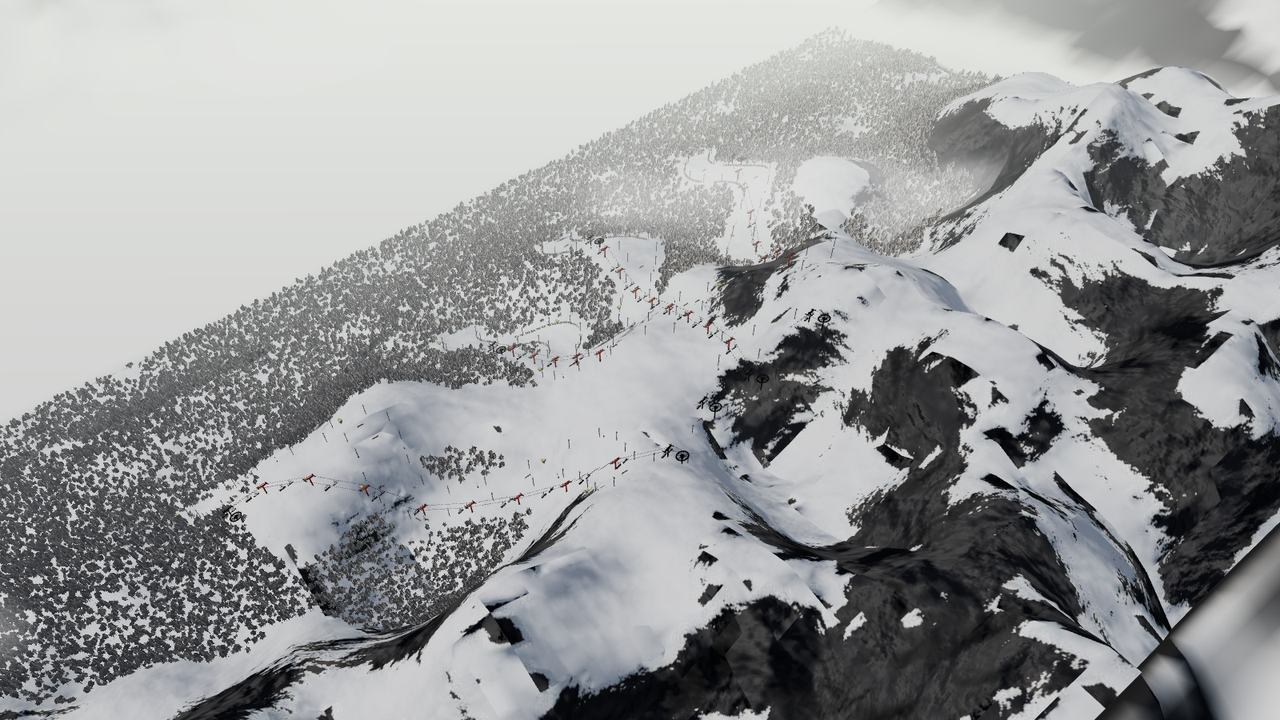
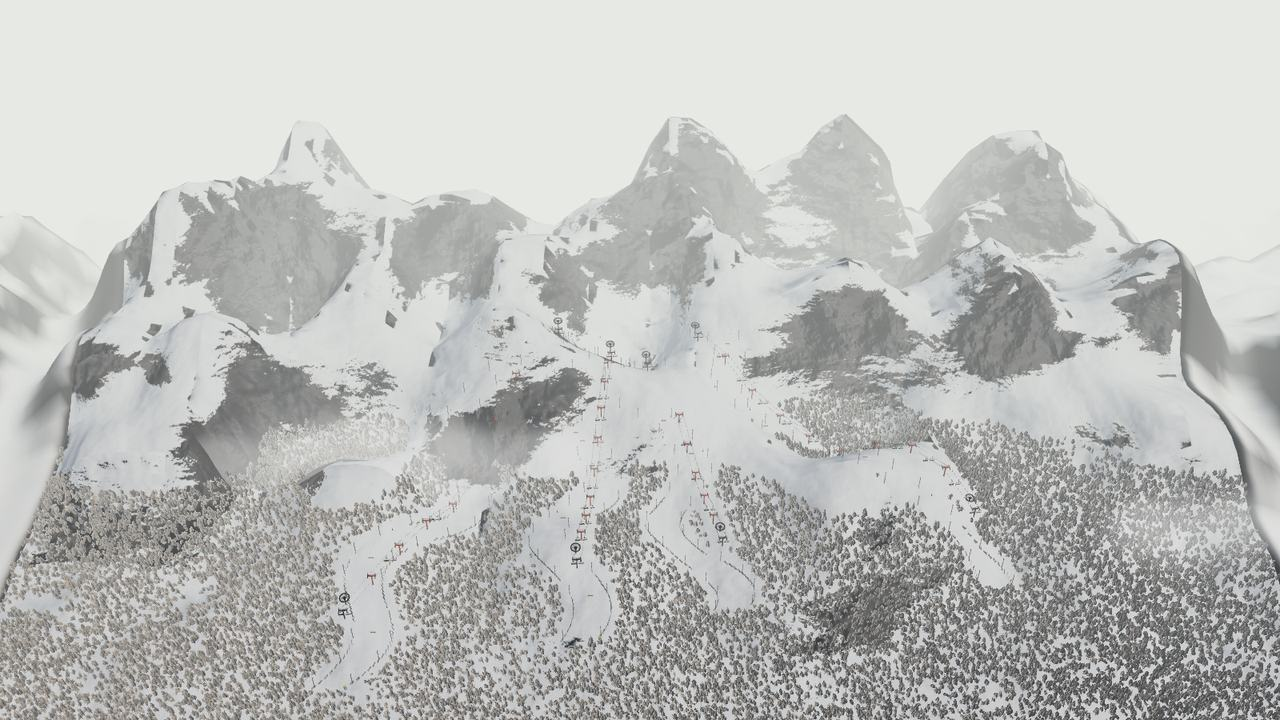
Ski section: dive camera path, stronger mouse pan, new poster

diff --git a/ski-resort.js b/ski-resort.js
@@ -10,17 +10,24 @@ const MODELS = 'Models/ski-resort/';
 const gltfLoader = new GLTFLoader().setMeshoptDecoder(MeshoptDecoder);   // terrain.glb is meshopt-compressed
 const params = new URLSearchParams(location.search);   // test hooks: ?p=0.5  ?time=night  ?clouds=80  ?trees=50
 
-/* ---------- Camera journey: summit -> base ----------
+/* ---------- Camera journey: a dive from the sky down onto the slopes ----------
    Scene units: the resort spans x -1.1 (valley) to +1.1 (summit), height 0 - 0.9. */
-const PATH = [
-  { cam: [ 1.10, 2.10,  0.90], look: [-0.20, 0.05, -0.10] },  // high bird's-eye over the summit, whole resort below
-  { cam: [ 0.50, 1.20,  1.25], look: [-0.40, 0.15,  0.00] },  // swinging out over the side of the mountain
-  { cam: [-0.30, 0.72,  1.15], look: [ 0.00, 0.25, -0.20] },  // mid-mountain, looking across the slopes and lifts
-  { cam: [-1.15, 0.60,  0.60], look: [ 0.40, 0.30, -0.10] },  // reaching the base, turning toward the peaks
-  { cam: [-1.55, 0.55,  0.00], look: [ 0.60, 0.30,  0.00] },  // at the base, looking back up the mountain
-];
-const camCurve  = new THREE.CatmullRomCurve3(PATH.map(k => new THREE.Vector3(...k.cam)),  false, 'centripetal');
-const lookCurve = new THREE.CatmullRomCurve3(PATH.map(k => new THREE.Vector3(...k.look)), false, 'centripetal');
+// Dive: starts high in the sky facing the mountain head-on, then dives at it and down onto the run
+// between lifts 1 and 2, the scene filling more of the frame the closer it gets. No turn.
+// Each key is [camera position], [point the camera looks at].
+const PATH = {
+  portraitPull: 0.12,           // little pull-back on phones: near the end there's terrain right behind
+  keys: [
+    { cam: [-2.40, 2.10,  0.00], look: [ 0.35, 0.30,  0.00] },  // high over the valley, the whole range head-on
+    { cam: [-1.85, 1.45,  0.02], look: [ 0.30, 0.30,  0.00] },  // starting the dive
+    { cam: [-1.35, 0.92,  0.04], look: [ 0.25, 0.32,  0.00] },  // dropping toward the forest and the base
+    { cam: [-0.95, 0.55,  0.05], look: [ 0.25, 0.36,  0.00] },  // over the treetops at the foot of the runs
+    { cam: [-0.62, 0.34,  0.06], look: [ 0.30, 0.44, -0.02] },  // low between lifts 1 and 2
+    { cam: [-0.42, 0.29,  0.05], look: [ 0.35, 0.50, -0.03] },  // on the run, towers and chairs close by
+  ],
+};
+const camCurve  = new THREE.CatmullRomCurve3(PATH.keys.map(k => new THREE.Vector3(...k.cam)),  false, 'centripetal');
+const lookCurve = new THREE.CatmullRomCurve3(PATH.keys.map(k => new THREE.Vector3(...k.look)), false, 'centripetal');
 
 const section = document.getElementById('ski');
 const sticky  = section.querySelector('.ski-sticky');
@@ -514,6 +521,8 @@ let visible = false;
 new IntersectionObserver(([e]) => { visible = e.isIntersecting; }, { rootMargin: '100px' }).observe(section);
 
 const pos = new THREE.Vector3(), look = new THREE.Vector3();
+// Mouse pan strength (scene units). Vertical is kept small: near the end of the dive the camera is close to the snow.
+const PAN = { side: 0.085, up: 0.035, turn: 0.03 };
 const debugCam = params.has('cam') ? [new THREE.Vector3(...params.get('cam').split(',').map(Number)), new THREE.Vector3(...params.get('look').split(',').map(Number))] : null;
 const clock = new THREE.Clock();
 function frame(now) {
@@ -535,12 +544,13 @@ function frame(now) {
   // tall (phone) screens: pull the camera back along its view line so the slopes still fit side to side
   // (eased in after the opening bird's-eye view, which already fits - pulling back there goes behind the summit)
   if (camera.aspect < 1) {
-    const pull = (1 / camera.aspect - 1) * 0.32 * THREE.MathUtils.smoothstep(p, 0.12, 0.4);
+    const pull = (1 / camera.aspect - 1) * PATH.portraitPull * THREE.MathUtils.smoothstep(p, 0.12, 0.4);
     pos.sub(look).multiplyScalar(1 + pull).add(look);
   }
   if (!reduceMotion) {
-    pos.z += mouse.sx * 0.05 + Math.sin(t * 0.3) * 0.006;      // subtle mouse parallax + breathing
-    pos.y += -mouse.sy * 0.025 + Math.cos(t * 0.25) * 0.004;
+    pos.z  += mouse.sx * PAN.side + Math.sin(t * 0.3) * 0.006;   // mouse pan + gentle breathing
+    pos.y  += -mouse.sy * PAN.up + Math.cos(t * 0.25) * 0.004;
+    look.z += mouse.sx * PAN.turn;                                // the view turns a little with the pan
   }
   camera.position.copy(pos);
   camera.lookAt(look);
